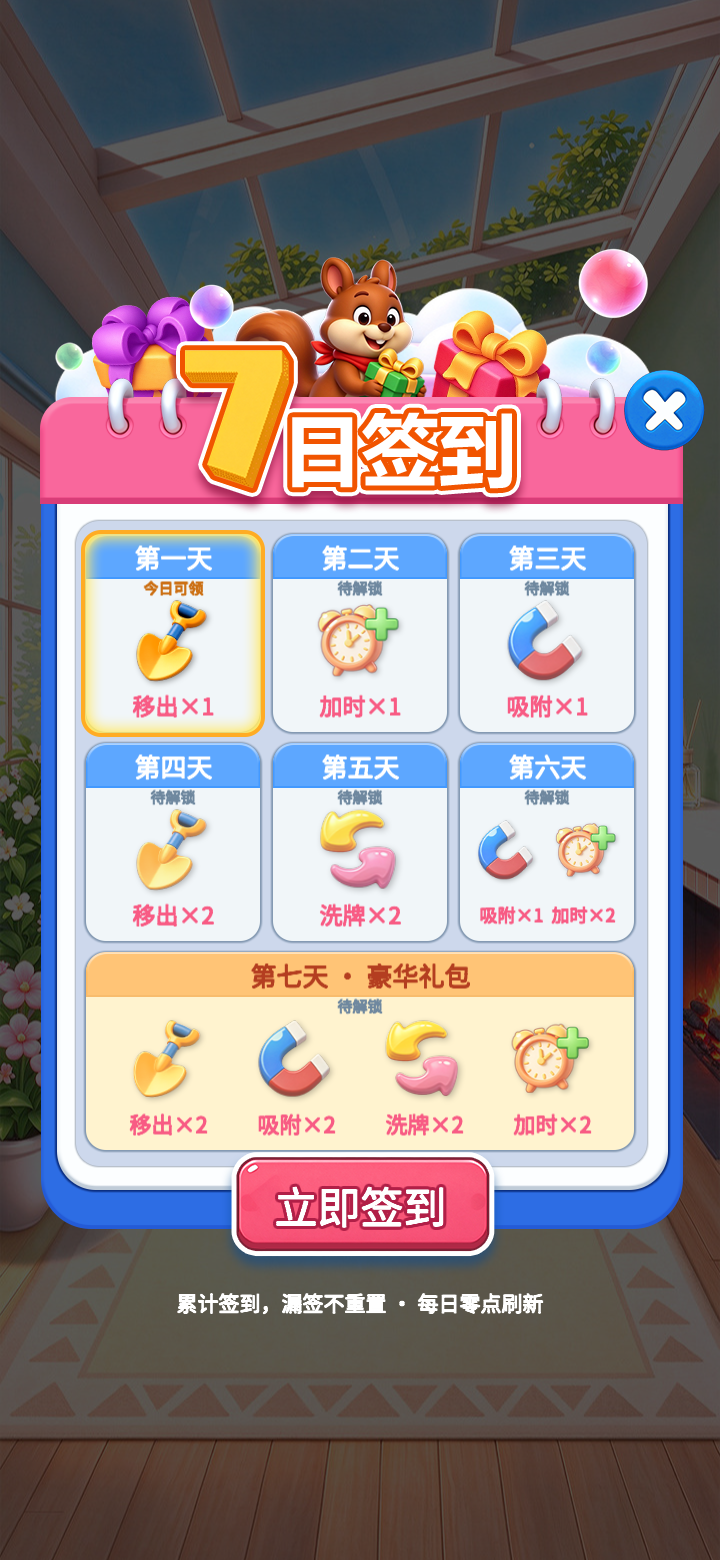
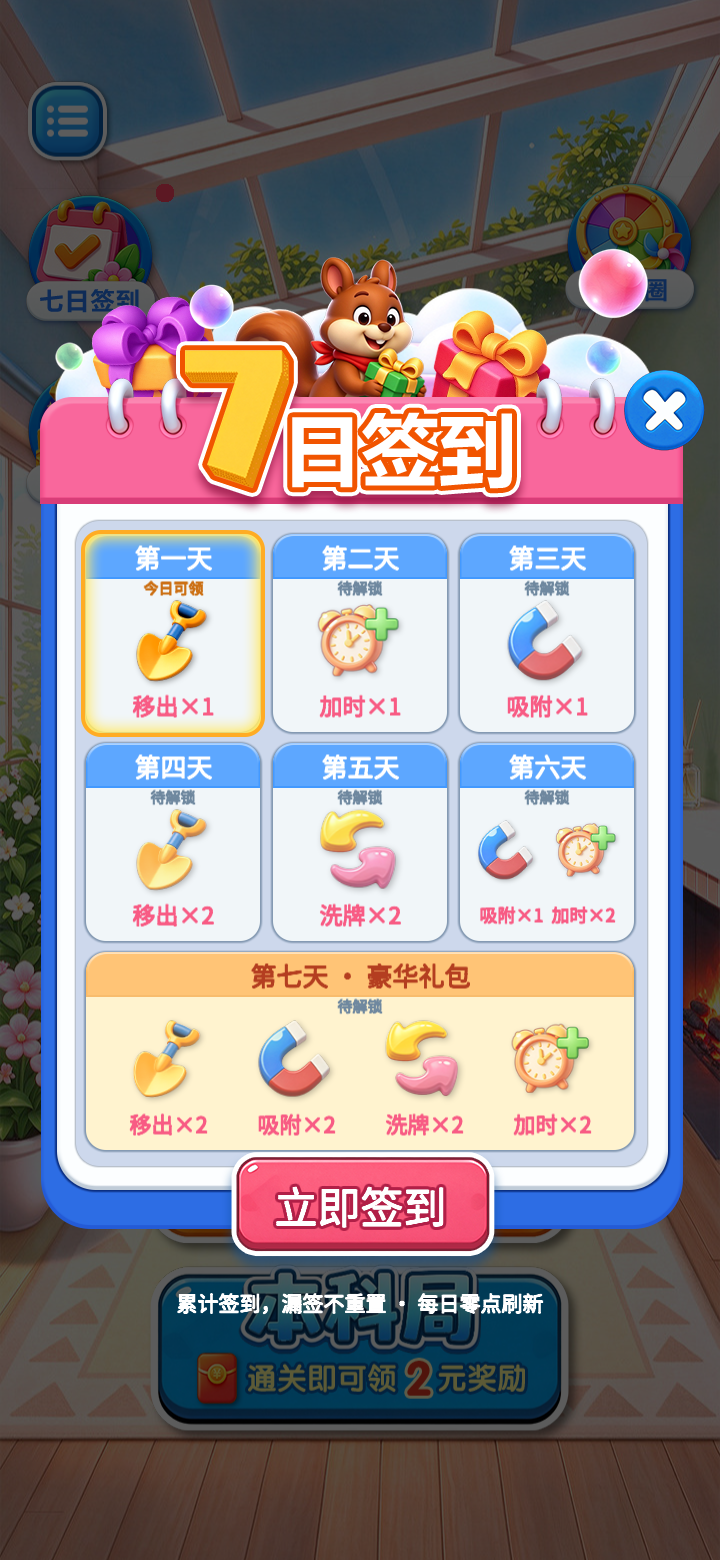
fix: separate home sign-in and invitation entries and verify hit areas

diff --git a/Assets/Match3D/Editor/Match3DSignInValidation.cs b/Assets/Match3D/Editor/Match3DSignInValidation.cs
@@ -8,6 +8,7 @@ using UnityEditor.SceneManagement;
 using UnityEngine;
 using UnityEngine.Networking;
 using UnityEngine.UI;
+using UnityEngine.EventSystems;
 
 [InitializeOnLoad] public static class Match3DSignInValidation {
     const string Key="Match3DSignInValidation.Pending";
@@ -17,7 +18,7 @@ using UnityEngine.UI;
         }
     };}
     public static void Run(){
-        Match3DSignInBuilder.Build();EditorSceneManager.NewScene(NewSceneSetup.EmptyScene);
+        EditorSceneManager.NewScene(NewSceneSetup.EmptyScene);
         SessionState.SetBool(Key,true);EditorApplication.EnterPlaymode();
     }
 }
@@ -56,6 +57,12 @@ public sealed class Match3DSignInProbe : MonoBehaviour {
         account=new GameObject("Sign in account fixture").AddComponent<Match3DInvitations>();account.Initialize(endpoint);
         var home=Match3DHomeView.Create(flow,page,Match3DHomeView.Tab.Home);yield return null;
         Assert(home.signIn&&home.signIn.gameObject.activeInHierarchy,"real home entry is visible");
+        yield return new WaitForSecondsRealtime(.7f);
+        Capture(720,1560,"home-long");Capture(720,1280,"home-standard");Capture(720,960,"home-short");
+        home.invite.onClick.Invoke();yield return null;
+        var invitation=FindObjectOfType<Match3DInviteView>();
+        Assert(invitation&&!View,"invitation entry opens invitation modal only");
+        invitation.GetComponent<Match3DUIView>().Get<Button>("Close").onClick.Invoke();yield return null;
         account.OnInvitationBridge("{\"code\":\"signin-fixture-"+Guid.NewGuid().ToString("N")+"\"}");
         yield return Wait(()=>account.Ready&&!account.Busy&&!account.SignInBusy&&account.SignInState!=null);
         Assert(account.SignInCurrent&&account.SignInState.day==1&&account.Inventory(0)==0,"login obtains server sign-in state without granting");
@@ -113,12 +120,33 @@ public sealed class Match3DSignInProbe : MonoBehaviour {
         var camera=new GameObject("Sign in capture camera").AddComponent<Camera>();camera.clearFlags=CameraClearFlags.SolidColor;
         camera.backgroundColor=new Color(.14f,.18f,.22f);var target=new RenderTexture(width,height,24);target.Create();camera.targetTexture=target;
         canvas.renderMode=RenderMode.ScreenSpaceCamera;canvas.worldCamera=camera;canvas.planeDistance=1;
-        camera.Render();Canvas.ForceUpdateCanvases();foreach(var fit in canvas.GetComponentsInChildren<Match3DUIFitContent>())fit.Fit();Canvas.ForceUpdateCanvases();
-        foreach(var button in View.GetComponentsInChildren<Button>()){
+        camera.Render();Canvas.ForceUpdateCanvases();
+        var home=FindObjectOfType<Match3DHomeView>();if(home)home.SendMessage("Layout");
+        foreach(var fit in canvas.GetComponentsInChildren<Match3DUIFitContent>())fit.Fit();Canvas.ForceUpdateCanvases();
+        var buttons=View?View.GetComponentsInChildren<Button>():home.GetComponentsInChildren<Button>();
+        foreach(var button in buttons){
             var corners=new Vector3[4];button.GetComponent<RectTransform>().GetWorldCorners(corners);
             foreach(var corner in corners){var p=camera.WorldToViewportPoint(corner);Assert(p.x>=0&&p.x<=1&&p.y>=0&&p.y<=1,name+" button within screen");}
         }
-        foreach(var label in View.GetComponentsInChildren<Text>()){
+        if(!View){
+            var raycaster=canvas.GetComponent<GraphicRaycaster>();
+            var events=EventSystem.current;if(!events)events=new GameObject("Home hit test events").AddComponent<EventSystem>();
+            foreach(var entry in new[]{home.signIn,home.invite}){
+                var rect=(RectTransform)entry.transform;
+                foreach(var other in buttons){
+                    if(other==entry)continue;
+                    var bounds=RectTransformUtility.CalculateRelativeRectTransformBounds(home.artwork,rect);
+                    var otherBounds=RectTransformUtility.CalculateRelativeRectTransformBounds(home.artwork,other.transform);
+                    Assert(!bounds.Intersects(otherBounds),name+" entry does not overlap "+entry.name+" / "+other.name);
+                }
+                foreach(float y in new[]{-.35f,0,.35f}){
+                    var point=RectTransformUtility.WorldToScreenPoint(camera,rect.TransformPoint(new Vector3(0,rect.rect.height*y,0)));
+                    var hits=new List<RaycastResult>();raycaster.Raycast(new PointerEventData(events){position=point},hits);
+                    Assert(hits.Count>0&&hits[0].gameObject.GetComponentInParent<Button>()==entry,name+" pointer hits "+entry.name+" at "+y);
+                }
+            }
+        }
+        foreach(var label in View?View.GetComponentsInChildren<Text>():Array.Empty<Text>()){
             if(string.IsNullOrEmpty(label.text))continue;
             label.cachedTextGenerator.Populate(label.text,label.GetGenerationSettings(label.rectTransform.rect.size));
             Assert(label.cachedTextGenerator.characterCountVisible>=label.text.Replace(" ","").Length,name+" text fits: "+label.text);
